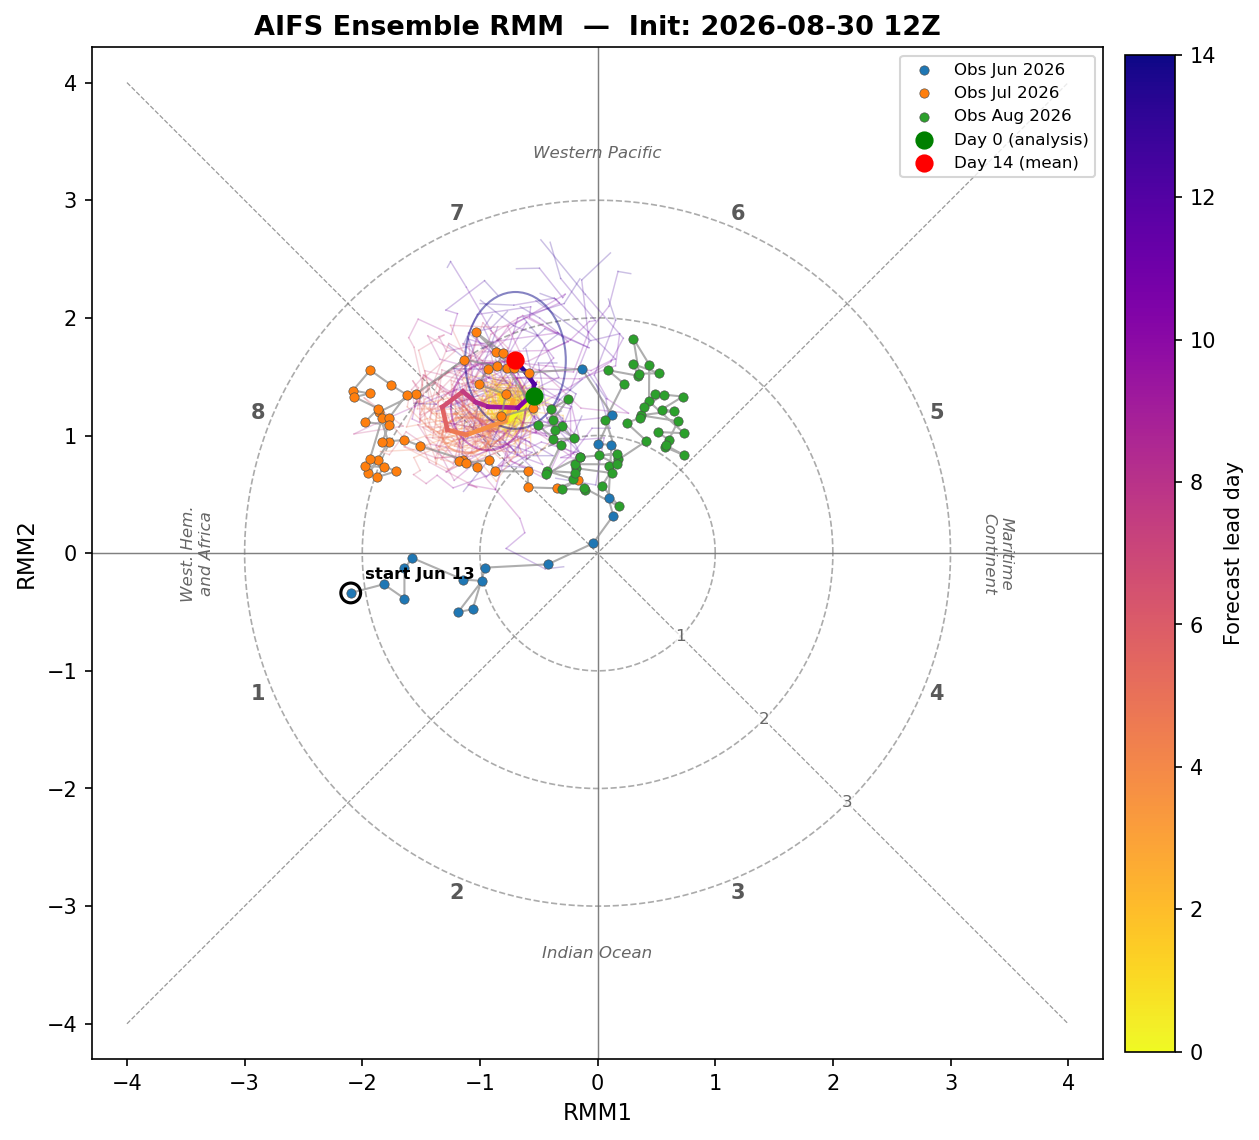
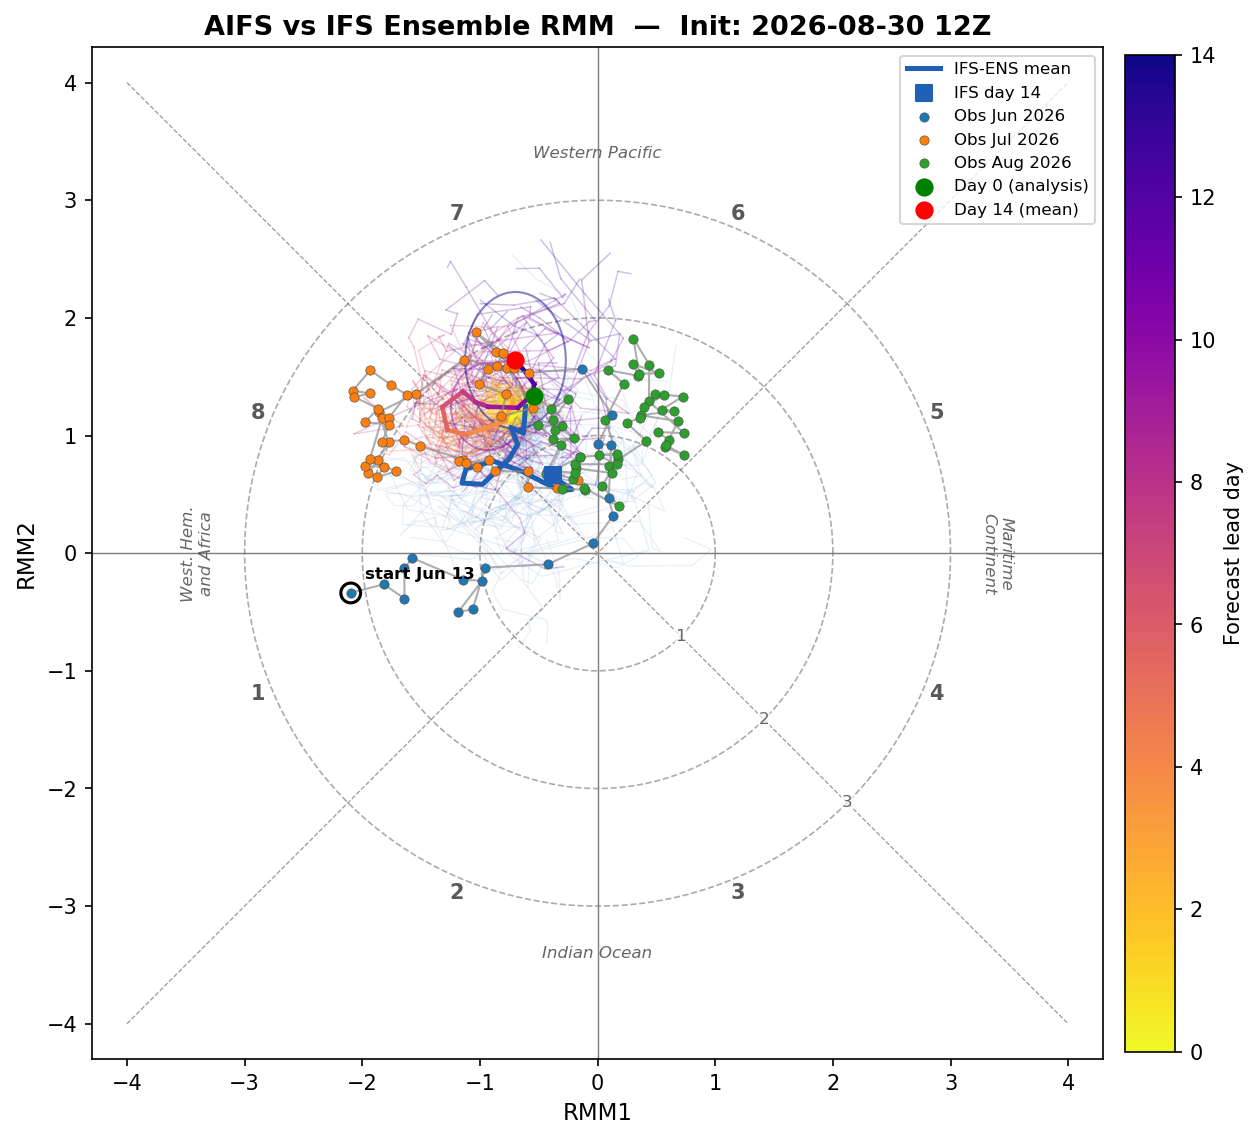
data update: 20260830_12z (r)

Changed region(s): [[0.1549, 0.0, 0.8674, 0.2149], [0.3407, 0.3377, 0.4647, 0.4912]]

diff --git a/mjo.html b/mjo.html
@@ -87,7 +87,7 @@
   degrees of the official BoM RMM phase).</p>
     <p class="lede" style="margin:0.5rem 0 1.2rem">Latest init: <strong>2026-08-30 12Z</strong>. Drag the slider to step through successive forecast runs (oldest → latest) and watch the predicted MJO track evolve.</p>
   <iframe class="anim-embed" src="sst_anim.html?embed=1&amp;base=assets&amp;manifest=mjo/rmm_manifest.json&amp;region=mjo" title="AIFS-ENS RMM forecast — successive runs animation" loading="lazy"></iframe>
-  <p class="meta">Updated 2026-08-30 18:22Z · Auto-generated from the AIFS-ENS open-data
+  <p class="meta">Updated 2026-08-30 20:30Z · Auto-generated from the AIFS-ENS open-data
   feed. Methodology: NOAA CPC / Wheeler &amp; Hendon (2004), EOFs from NOAA OLR +
   NCEP wind with the 120-day low-frequency filter removed; pseudo-OLR from
   &minus;standardized daily precip vs an ERA5 1991&ndash;2020 band climatology.</p>
